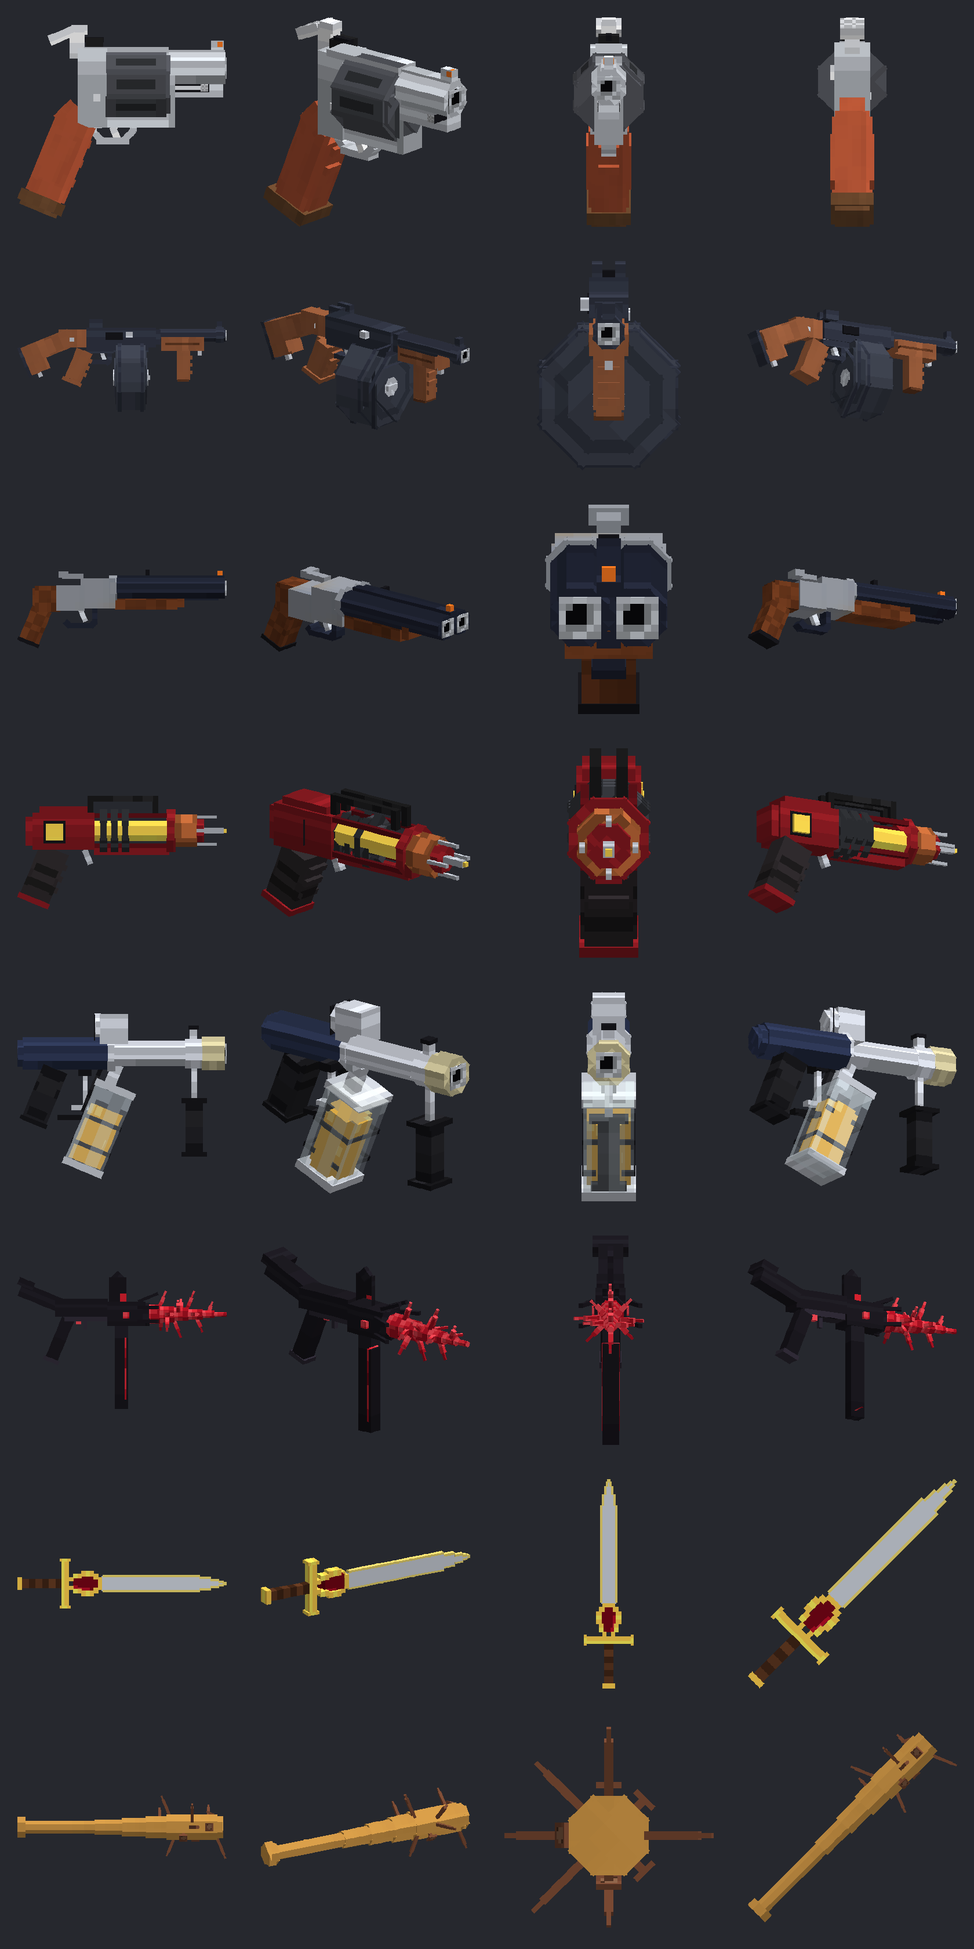
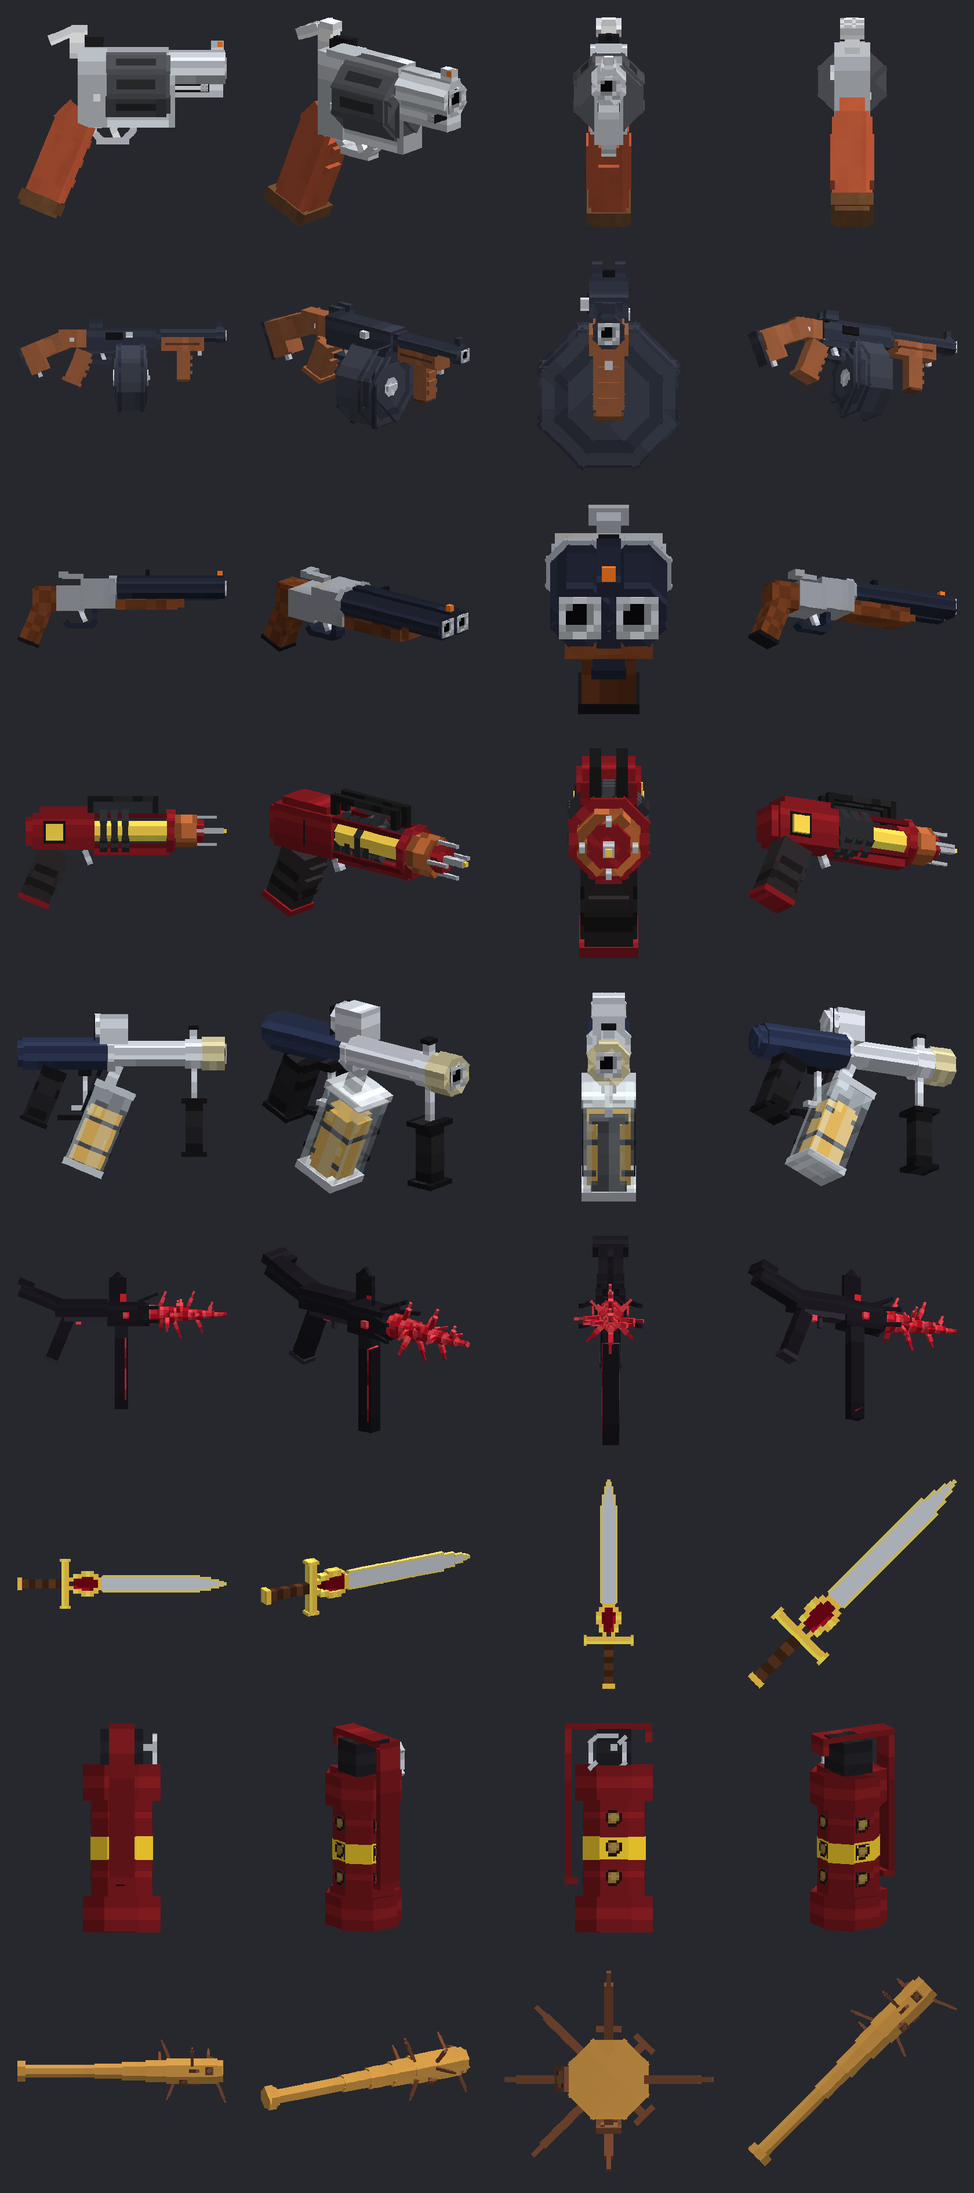
0.9.0: Stun Grenade (thrown, pops with a bang, smoke and a brief flash)
Claude-Session: https://claude.ai/code/session_01G8stAj2NsEdEgKC46eLYfu

diff --git a/src/main/java/dev/handcannon/StunGrenade.java b/src/main/java/dev/handcannon/StunGrenade.java
@@ -1,0 +1,140 @@
+package dev.handcannon;
+
+import net.kyori.adventure.text.Component;
+import net.kyori.adventure.text.format.NamedTextColor;
+import net.kyori.adventure.text.format.TextDecoration;
+import org.bukkit.Color;
+import org.bukkit.GameMode;
+import org.bukkit.Location;
+import org.bukkit.Material;
+import org.bukkit.NamespacedKey;
+import org.bukkit.Particle;
+import org.bukkit.Sound;
+import org.bukkit.SoundCategory;
+import org.bukkit.World;
+import org.bukkit.block.Block;
+import org.bukkit.block.data.type.Light;
+import org.bukkit.entity.Item;
+import org.bukkit.entity.Player;
+import org.bukkit.event.Event;
+import org.bukkit.event.EventHandler;
+import org.bukkit.event.Listener;
+import org.bukkit.event.block.Action;
+import org.bukkit.event.inventory.InventoryPickupItemEvent;
+import org.bukkit.event.inventory.PrepareItemCraftEvent;
+import org.bukkit.event.player.PlayerInteractEvent;
+import org.bukkit.inventory.EquipmentSlot;
+import org.bukkit.inventory.ItemStack;
+import org.bukkit.inventory.meta.ItemMeta;
+import org.bukkit.persistence.PersistentDataType;
+import org.bukkit.util.Vector;
+
+import java.util.List;
+
+/**
+ * The Stun Grenade: right-click throws it. It tumbles and rolls, and after a short fuse it pops with a bang, a small
+ * puff of smoke and a brief flash of light. For now that's all it does.
+ */
+final class StunGrenade implements Listener {
+    private final HandCannonPlugin plugin;
+    private final NamespacedKey key, liveKey;
+
+    StunGrenade(HandCannonPlugin plugin) {
+        this.plugin = plugin;
+        key = new NamespacedKey(plugin, "stun_grenade");
+        liveKey = new NamespacedKey(plugin, "stun_grenade_live");
+    }
+
+    ItemStack create(int amount) {
+        ItemStack it = new ItemStack(Material.SNOWBALL, Math.max(1, Math.min(16, amount)));   // stacks to 16
+        ItemMeta m = it.getItemMeta();
+        m.displayName(Component.text("Stun Grenade", NamedTextColor.GOLD).decoration(TextDecoration.ITALIC, false));
+        m.lore(List.of(Component.text("Right-click to throw", NamedTextColor.GRAY).decoration(TextDecoration.ITALIC, false)));
+        m.setItemModel(NamespacedKey.fromString("handcannon:stun_grenade"));
+        m.getPersistentDataContainer().set(key, PersistentDataType.BYTE, (byte) 1);
+        it.setItemMeta(m);
+        return it;
+    }
+
+    boolean is(ItemStack it) {
+        return it != null && it.hasItemMeta() && it.getItemMeta().getPersistentDataContainer().has(key, PersistentDataType.BYTE);
+    }
+
+    @EventHandler
+    public void onThrow(PlayerInteractEvent e) {
+        if (e.getAction() != Action.RIGHT_CLICK_AIR && e.getAction() != Action.RIGHT_CLICK_BLOCK) return;
+        ItemStack held = e.getItem();
+        if (!is(held)) return;
+        e.setUseItemInHand(Event.Result.DENY);   // not a snowball: we throw it ourselves
+        e.setUseInteractedBlock(Event.Result.DENY);
+        Player p = e.getPlayer();
+        if (e.getHand() == EquipmentSlot.OFF_HAND && is(p.getInventory().getItemInMainHand())) return;
+        if (!p.hasPermission("handcannon.use") || p.hasCooldown(held)) return;
+        var cfg = plugin.getConfig();
+        p.setCooldown(held, Math.max(1, cfg.getInt("grenade.cooldown-ticks", 10)));
+
+        // the thrown grenade is a real item on the ground: it tumbles and rolls, but nothing can pick it up
+        ItemStack shown = held.clone();
+        shown.setAmount(1);
+        ItemMeta sm = shown.getItemMeta();
+        sm.getPersistentDataContainer().set(liveKey, PersistentDataType.BYTE, (byte) 1);
+        shown.setItemMeta(sm);
+        Location eye = p.getEyeLocation();
+        Vector vel = eye.getDirection().multiply(cfg.getDouble("grenade.throw-speed", 0.9)).add(new Vector(0, 0.15, 0));
+        World w = p.getWorld();
+        Item thrown = w.dropItem(eye.clone().add(eye.getDirection().multiply(0.4)), shown, it -> {
+            it.setVelocity(vel);
+            it.setPickupDelay(Integer.MAX_VALUE);
+            it.setCanPlayerPickup(false);
+            it.setCanMobPickup(false);
+            it.setInvulnerable(true);
+            it.setPersistent(false);   // never saved: a restart can't leave a live grenade lying about
+        });
+        if (p.getGameMode() != GameMode.CREATIVE) held.setAmount(held.getAmount() - 1);
+        w.playSound(p.getLocation(), Sound.BLOCK_TRIPWIRE_CLICK_ON, SoundCategory.PLAYERS, 1f, 1.6f);   // pin out
+        w.playSound(p.getLocation(), Sound.ENTITY_SNOWBALL_THROW, SoundCategory.PLAYERS, 0.8f, 0.6f);
+
+        int fuse = Math.max(1, cfg.getInt("grenade.fuse-ticks", 30));
+        plugin.getServer().getScheduler().runTaskLater(plugin, () -> {
+            if (!thrown.isValid()) return;
+            Location at = thrown.getLocation().add(0, 0.2, 0);
+            thrown.remove();
+            pop(at);
+        }, fuse);
+    }
+
+    private void pop(Location at) {
+        World w = at.getWorld();
+        w.playSound(at, Sound.ENTITY_FIREWORK_ROCKET_BLAST, SoundCategory.PLAYERS, 2.0f, 1.3f);
+        w.playSound(at, Sound.ENTITY_GENERIC_EXPLODE, SoundCategory.PLAYERS, 0.7f, 1.8f);
+        w.spawnParticle(Particle.CLOUD, at, 10, 0.25, 0.2, 0.25, 0.03);
+        w.spawnParticle(Particle.SMOKE, at, 20, 0.3, 0.2, 0.3, 0.02);
+        // the flash: the particle (its data type differs between versions, so ask it what it wants)
+        if (Particle.FLASH.getDataType() == Color.class) w.spawnParticle(Particle.FLASH, at, 1, 0, 0, 0, 0, Color.WHITE);
+        else if (Particle.FLASH.getDataType() == Void.class) w.spawnParticle(Particle.FLASH, at, 1, 0, 0, 0, 0);
+        w.spawnParticle(Particle.END_ROD, at, 12, 0.1, 0.1, 0.1, 0.15);
+        // ...and a moment of real light: an invisible light block in the air where it popped, removed again after a few ticks
+        Block b = at.getBlock();
+        if (b.getType() == Material.AIR || b.getType() == Material.CAVE_AIR) {
+            Light light = (Light) Material.LIGHT.createBlockData();
+            light.setLevel(15);
+            b.setBlockData(light, false);
+            plugin.getServer().getScheduler().runTaskLater(plugin, () -> {
+                if (b.getType() == Material.LIGHT) b.setType(Material.AIR, false);
+            }, Math.max(1, plugin.getConfig().getInt("grenade.flash-ticks", 4)));
+        }
+    }
+
+    /** Hoppers can't swallow a live grenade. */
+    @EventHandler
+    public void onHopper(InventoryPickupItemEvent e) {
+        ItemStack it = e.getItem().getItemStack();
+        if (it.hasItemMeta() && it.getItemMeta().getPersistentDataContainer().has(liveKey, PersistentDataType.BYTE)) e.setCancelled(true);
+    }
+
+    /** It's a snowball underneath: keep it out of crafting grids (it would make snow blocks). */
+    @EventHandler
+    public void onCraft(PrepareItemCraftEvent e) {
+        for (ItemStack it : e.getInventory().getMatrix()) if (is(it)) { e.getInventory().setResult(null); return; }
+    }
+}

diff --git a/src/main/java/dev/handcannon/HandCannonPlugin.java b/src/main/java/dev/handcannon/HandCannonPlugin.java
@@ -56,6 +56,7 @@ public final class HandCannonPlugin extends JavaPlugin implements Listener, TabE
     private GooCannon goo;
     private UmbralLance umbral;
     private RadiantAnkh ankh;
+    private StunGrenade grenade;
     /** Last tick each player fired the Tommy gun, so one click can't fire twice (both hands, block + entity events). */
     private final Map<UUID, Integer> lastTommyShot = new HashMap<>();
 
@@ -72,12 +73,14 @@ public final class HandCannonPlugin extends JavaPlugin implements Listener, TabE
         goo = new GooCannon(this);
         umbral = new UmbralLance(this);
         ankh = new RadiantAnkh(this);
+        grenade = new StunGrenade(this);
         getServer().getPluginManager().registerEvents(this, this);
         getServer().getPluginManager().registerEvents(bat, this);
         getServer().getPluginManager().registerEvents(pala, this);
         getServer().getPluginManager().registerEvents(goo, this);
         getServer().getPluginManager().registerEvents(umbral, this);
         getServer().getPluginManager().registerEvents(ankh, this);
+        getServer().getPluginManager().registerEvents(grenade, this);
         var cmd = getCommand("handcannon");
         if (cmd != null) { cmd.setExecutor(this); cmd.setTabCompleter(this); }
     }
@@ -317,17 +320,17 @@ public final class HandCannonPlugin extends JavaPlugin implements Listener, TabE
         String sub = args.length == 0 ? "give" : args[0].toLowerCase();
         switch (sub) {
             case "give" -> {
-                // /hc give [gun|tommy|shotgun|pala|goo|corruption|holy|bat] [player] ("ankh" also works) ("umbral" also works); the item can be left out (gun)
+                // /hc give [gun|tommy|shotgun|pala|goo|corruption|holy|grenade|bat] [player] ("ankh" also works) ("umbral" also works); the item can be left out (gun)
                 int i = 1;
                 String what = "gun";
-                if (args.length > i && List.of("gun", "tommy", "shotgun", "pala", "goo", "corruption", "umbral", "holy", "ankh", "bat").contains(args[i].toLowerCase())) what = args[i++].toLowerCase();
+                if (args.length > i && List.of("gun", "tommy", "shotgun", "pala", "goo", "corruption", "umbral", "holy", "ankh", "grenade", "bat").contains(args[i].toLowerCase())) what = args[i++].toLowerCase();
                 Player target;
                 if (args.length > i) target = Bukkit.getPlayerExact(args[i]);
                 else target = sender instanceof Player self ? self : null;
-                if (target == null) { sender.sendMessage(Component.text("Usage: /" + label + " give [gun|tommy|shotgun|pala|goo|corruption|holy|bat] <player>", NamedTextColor.RED)); return true; }
-                ItemStack item = switch (what) { case "bat" -> bat.create(); case "tommy" -> createTommy(); case "shotgun" -> createShotgun(); case "pala" -> pala.create(); case "goo" -> goo.create(); case "corruption", "umbral" -> umbral.create(); case "holy", "ankh" -> ankh.create(); default -> createGun(); };
+                if (target == null) { sender.sendMessage(Component.text("Usage: /" + label + " give [gun|tommy|shotgun|pala|goo|corruption|holy|grenade|bat] <player>", NamedTextColor.RED)); return true; }
+                ItemStack item = switch (what) { case "bat" -> bat.create(); case "tommy" -> createTommy(); case "shotgun" -> createShotgun(); case "pala" -> pala.create(); case "goo" -> goo.create(); case "corruption", "umbral" -> umbral.create(); case "holy", "ankh" -> ankh.create(); case "grenade" -> grenade.create(1); default -> createGun(); };
                 target.getInventory().addItem(item).values().forEach(left -> target.getWorld().dropItem(target.getLocation(), left));
-                sender.sendMessage(Component.text("Gave a " + switch (what) { case "bat" -> "Nail Bat"; case "tommy" -> "Tommy Gun"; case "shotgun" -> "Double Barrel"; case "pala" -> "Pala-Pistol"; case "goo" -> "Goo Cannon"; case "corruption", "umbral" -> "Corruption Cannon"; case "holy", "ankh" -> "Holy Blade"; default -> "Hand Cannon"; } + " to " + target.getName(), NamedTextColor.GOLD));
+                sender.sendMessage(Component.text("Gave a " + switch (what) { case "bat" -> "Nail Bat"; case "tommy" -> "Tommy Gun"; case "shotgun" -> "Double Barrel"; case "pala" -> "Pala-Pistol"; case "goo" -> "Goo Cannon"; case "corruption", "umbral" -> "Corruption Cannon"; case "holy", "ankh" -> "Holy Blade"; case "grenade" -> "Stun Grenade"; default -> "Hand Cannon"; } + " to " + target.getName(), NamedTextColor.GOLD));
             }
             case "reload" -> {
                 reloadConfig();
@@ -338,7 +341,7 @@ public final class HandCannonPlugin extends JavaPlugin implements Listener, TabE
                 if (target == null) { sender.sendMessage(Component.text("Usage: /" + label + " pack <player>", NamedTextColor.RED)); return true; }
                 sendPack(target);
             }
-            default -> sender.sendMessage(Component.text("Usage: /" + label + " give [gun|tommy|shotgun|pala|goo|corruption|holy|bat] [player] | reload | pack [player]", NamedTextColor.RED));
+            default -> sender.sendMessage(Component.text("Usage: /" + label + " give [gun|tommy|shotgun|pala|goo|corruption|holy|grenade|bat] [player] | reload | pack [player]", NamedTextColor.RED));
         }
         return true;
     }
@@ -349,7 +352,7 @@ public final class HandCannonPlugin extends JavaPlugin implements Listener, TabE
         if (args.length == 1) {
             for (String s : List.of("give", "reload", "pack")) if (s.startsWith(args[0].toLowerCase())) out.add(s);
         } else if (args.length == 2 && args[0].equalsIgnoreCase("give")) {
-            for (String s : List.of("gun", "tommy", "shotgun", "pala", "goo", "corruption", "holy", "bat")) if (s.startsWith(args[1].toLowerCase())) out.add(s);
+            for (String s : List.of("gun", "tommy", "shotgun", "pala", "goo", "corruption", "holy", "grenade", "bat")) if (s.startsWith(args[1].toLowerCase())) out.add(s);
             for (Player pl : Bukkit.getOnlinePlayers()) if (pl.getName().toLowerCase().startsWith(args[1].toLowerCase())) out.add(pl.getName());
         } else if (args.length == 3 && args[0].equalsIgnoreCase("give")) {
             for (Player pl : Bukkit.getOnlinePlayers()) if (pl.getName().toLowerCase().startsWith(args[2].toLowerCase())) out.add(pl.getName());

diff --git a/tools/make_pack.py b/tools/make_pack.py
@@ -781,6 +781,51 @@ for e in elements:
     if any(f["texture"] == "#radiance" for f in e["faces"].values()): e["light_emission"] = 15
 SWORD = elements
 
+# ---------------- geometry: stun grenade ----------------
+# A flashbang: dark red body between two big nuts, a yellow stripe, rows of holes with brass showing through, a
+# black fuse on top with a dark red spoon running down one side, and a steel pull ring. Stands upright, centred on
+# x = z = 8 (like the bat).
+def tex_hole():
+    im = Image.new("RGBA", (16, 16), (0, 0, 0, 0)); d = ImageDraw.Draw(im)
+    d.ellipse((0, 0, 15, 15), fill=(40, 20, 20, 255))
+    d.ellipse((2, 2, 13, 13), fill=(150, 120, 60, 255))
+    d.ellipse((4, 3, 12, 11), fill=(176, 146, 78, 255))
+    return im
+GRENADE_TEX = {"red": tex_metal((112, 24, 28)), "yellow": tex_metal((236, 192, 44), 0, edge=False),
+               "black": tex_metal((30, 30, 34)), "steel": tex_metal((172, 176, 184)), "hole": tex_hole()}
+for k, im in GRENADE_TEX.items(): im.save(path("assets", NS, "textures", "item", "stun_grenade", k + ".png"))
+FULL_UV.add("hole")
+
+elements = []
+ENDS = {"up": "red", "down": "red"}
+round_rod(8, 8, 7.0, 0.0, 3.2, "red")                               # bottom nut
+round_rod(8, 8, 5.6, 3.2, 6.8, "red")                               # body
+round_rod(8, 8, 5.72, 6.8, 8.8, "yellow")                           # yellow stripe (a hair proud of the body)
+round_rod(8, 8, 5.6, 8.8, 12.4, "red")
+round_rod(8, 8, 7.0, 12.4, 15.6, "red")                             # top nut
+# rows of holes on four sides; the middle row sits on the stripe
+for yc in (5.0, 7.8, 10.6):
+    for side in ("north", "south", "east", "west"):
+        if side == "south":   frm, to = (7.25, yc - 0.75, 10.82), (8.75, yc + 0.75, 10.9)
+        elif side == "north": frm, to = (7.25, yc - 0.75, 5.1), (8.75, yc + 0.75, 5.18)
+        elif side == "east":  frm, to = (10.82, yc - 0.75, 7.25), (10.9, yc + 0.75, 8.75)
+        else:                 frm, to = (5.1, yc - 0.75, 7.25), (5.18, yc + 0.75, 8.75)
+        box(frm, to, "black", {side: "hole"})
+# fuse head, the spoon over the top and down the side, the pin and the pull ring
+box((6.0, 15.6, 6.4), (10.0, 19.0, 9.6), "black")
+box((6.8, 19.0, 5.0), (9.2, 19.6, 12.6), "red")                     # spoon across the top
+box((6.8, 17.8, 4.4), (9.2, 19.6, 5.0), "red")                      # curled front of the spoon
+box((6.8, 5.0, 12.0), (9.2, 19.0, 12.6), "red")                     # spoon down the side
+box((6.8, 4.4, 11.4), (9.2, 5.0, 12.6), "red")                      # its foot
+box((10.0, 17.0, 7.7), (10.9, 17.6, 8.3), "steel")                  # pin
+RX = 10.9
+for frm, to in (((RX, 18.2, 7.6), (RX + 0.4, 18.6, 9.6)), ((RX, 15.0, 7.6), (RX + 0.4, 15.4, 9.6)),
+                ((RX, 15.8, 6.8), (RX + 0.4, 17.8, 7.2)), ((RX, 15.8, 10.0), (RX + 0.4, 17.8, 10.4))):
+    box(frm, to, "steel")                                           # pull ring
+for yc, zc in ((18.0, 7.2), (18.0, 10.0), (15.6, 7.2), (15.6, 10.0)):   # rounded corners of the ring
+    box((RX, yc - 0.2, zc - 0.5), (RX + 0.4, yc + 0.2, zc + 0.5), "steel", rot=("x", 45, (RX + 0.2, yc, zc)))
+GRENADE = elements
+
 # ---------------- maths for preview + auto-centring ----------------
 def rot_axis(v, axis, deg, origin):
     a = math.radians(deg); c, s = math.cos(a), math.sin(a)
@@ -883,6 +928,16 @@ SWORD_DISPLAY = {
     "firstperson_righthand": {"rotation": [0, -90, -20], "translation": [1.13, 9.5, 1.13], "scale": [0.5] * 3},
     "firstperson_lefthand":  {"rotation": [0, 90, 20], "translation": [1.13, 9.5, 1.13], "scale": [0.5] * 3},
 }
+GRENADE_DISPLAY = {
+    "gui":                   centred(GRENADE, (15, -30, 0), 0.72),
+    "ground":                centred(GRENADE, (0, 0, 0), 0.5),
+    "fixed":                 centred(GRENADE, (0, 0, 0), 0.72),
+    "head":                  centred(GRENADE, (0, 0, 0), 0.6, (0, 8, 0)),
+    "thirdperson_righthand": centred(GRENADE, (0, -90, 10), 0.5, (0, 2.5, 1.0)),
+    "thirdperson_lefthand":  centred(GRENADE, (0, 90, -10), 0.5, (0, 2.5, 1.0)),
+    "firstperson_righthand": centred(GRENADE, (0, -90, 0), 0.55, (2, 2, 0)),
+    "firstperson_lefthand":  centred(GRENADE, (0, 90, 0), 0.55, (2, 2, 0)),
+}
 # The bat is held like a sword: these are vanilla's handheld transforms, turned 45 degrees further because the
 # bat model stands upright where a sword sprite runs corner to corner.
 BAT_DISPLAY = {
@@ -912,6 +967,7 @@ write_item("pala_pistol", PALA, PALA_TEX, PALA_DISPLAY, "body")
 write_item("goo_cannon", GOO, GOO_TEX, GOO_DISPLAY, "steel", GOO_TEX_PATHS)
 write_item("umbral_lance", UMBRAL, UMB_TEX, UMBRAL_DISPLAY, "black")
 write_item("radiant_ankh", SWORD, SWORD_TEX, SWORD_DISPLAY, "gold")
+write_item("stun_grenade", GRENADE, GRENADE_TEX, GRENADE_DISPLAY, "red")
 # pack.mcmeta: resource pack format 88 = Minecraft 26.2
 wjson(path("pack.mcmeta"), {"pack": {"description": "HandCannon weapons", "min_format": [88, 0], "max_format": [99, 0]}})
 
@@ -977,6 +1033,7 @@ rows = [[render(GUN, TEX, -90, 0), render(GUN, TEX, -130, 18), render(GUN, TEX, 
         [render(GOO, GOO_PREVIEW_TEX, -90, 0), render(GOO, GOO_PREVIEW_TEX, -130, 18), render(GOO, GOO_PREVIEW_TEX, 180, 8), render(GOO, GOO_PREVIEW_TEX, -60, -15)],
         [render(UMBRAL, UMB_TEX, -90, 0), render(UMBRAL, UMB_TEX, -130, 18), render(UMBRAL, UMB_TEX, 180, 8), render(UMBRAL, UMB_TEX, -60, -15)],
         [render(SWORD, SWORD_TEX, 0, 0, -90), render(SWORD, SWORD_TEX, 30, 20, -90), render(SWORD, SWORD_TEX, 0, 0, 0), render(SWORD, SWORD_TEX, 0, 0, -45)],
+        [render(GRENADE, GRENADE_TEX, 0, 0, 0), render(GRENADE, GRENADE_TEX, 35, 15, 0), render(GRENADE, GRENADE_TEX, -90, 0, 0), render(GRENADE, GRENADE_TEX, 120, 15, 0)],
         [render(BAT, BAT_TEX, 0, 0, -90), render(BAT, BAT_TEX, 30, 20, -90), render(BAT, BAT_TEX, 0, 90), render(BAT, BAT_TEX, 0, 0, -45)]]
 pv = Image.new("RGBA", (420 * 4, 420 * len(rows)))
 for r, row in enumerate(rows):

diff --git a/README.md b/README.md
@@ -3,7 +3,8 @@
 A comically oversized snubnose revolver (right-click to fire), a cartoon M1-style Tommy gun with a huge drum magazine
 (hold right-click for full auto), a chunky sawed-off side-by-side shotgun (right-click for a blast of pellets),
 the Pala-Pistol (a slow bolt of light that stuns), the Goo Cannon (a glob of honey that traps), the Corruption Cannon (a piercing beam of darkness),
-the Holy Blade (a sword with an ankh hilt and animated, glowing edges) and a nail-studded baseball bat (hold right-click to wind up a home run), all with 3D models. No ammo, no reloading.
+the Holy Blade (a sword with an ankh hilt and animated, glowing edges), a stun grenade and a nail-studded
+baseball bat (hold right-click to wind up a home run), all with 3D models. No ammo, no reloading.
 
 ![preview](preview.png)
 
@@ -25,7 +26,7 @@ person, third person, the inventory and item frames is the `DISPLAY` table near 
 change a rotation, nudge or scale, re-run the script and re-host the zip.
 
 ## Commands
-    /hc give [gun|tommy|shotgun|pala|goo|corruption|holy|bat] [player]   give a Hand Cannon (default), Tommy Gun, Double Barrel, Pala-Pistol, Goo Cannon, Corruption Cannon, Holy Blade or Nail Bat (op)
+    /hc give [gun|tommy|shotgun|pala|goo|corruption|holy|grenade|bat] [player]   give a Hand Cannon (default), Tommy Gun, Double Barrel, Pala-Pistol, Goo Cannon, Corruption Cannon, Holy Blade, Stun Grenade or Nail Bat (op)
     /hc reload              reload config.yml (op)
     /hc pack [player]       resend the resource pack (op)
 Permission `handcannon.use` (everyone by default) is needed to fire.
@@ -65,6 +66,11 @@ and tip are lined with thin radiant light that dims and brightens and glows in t
 steel (both are animated textures). It swings like a vanilla sword and does 100 damage (fifty hearts); every hit
 flares with light. Damage and speed are stamped on each sword when it is given (`holy:` in `config.yml`) and are
 kept out of its tooltip. `/hc give ankh` still works.
+
+## Stun Grenade
+Right-click throws it (one from the stack; they stack to 16). It tumbles and rolls, and after 1.5 seconds pops with a
+bang, a small puff of smoke and a brief flash that lights the area for a moment. For now it does nothing else: no
+damage and no stun. Settings are under `grenade:`.
 
 ## Nail Bat
 Left-click is a normal hit: 10 damage (five hearts) at full strength, a bit under one swing a second.
